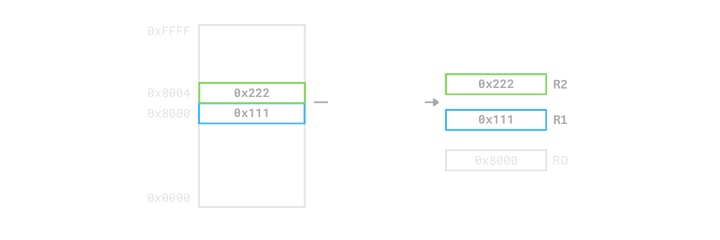
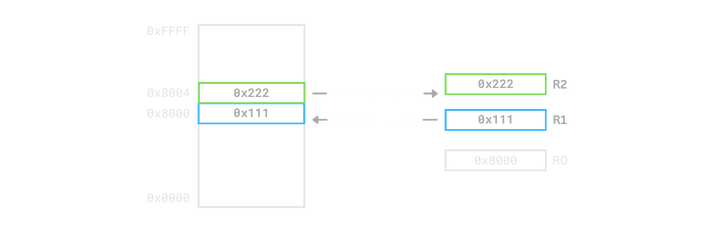
[draft] what's better?

diff --git a/_i18n/en/_posts/2025-11-11-arm-memory-block-access.md b/_i18n/en/_posts/2025-11-11-arm-memory-block-access.md
@@ -180,7 +180,7 @@ Note:
 > As shown in the [stack post]({% post_url 2025-11-06-arm-stack-memory %}),
 > it’s easier to visualize memory with higher addresses at the top and lower addresses at the bottom.
 
-#### IA (default):
+#### IA(Increment After) - default
 - start_address = Rn
 - end_addrses = Rn + (# of registers * 4) - 4
 - Rn = Rn + (# of registers * 4)
@@ -195,6 +195,37 @@ Note:
  
 Rn = 0x100C
 ```
+
+**Example: ldmia.s**
+```armasm
+  .text
+  .global _start
+_start:
+  ldr r0, =arr
+  ldmia r0, {r1-r3}
+  b .
+ 
+arr:
+  .word 0x1
+  .word 0x2
+  .word 0x3
+```
+
+**Example: stmia.s**
+```armasm
+  .text
+  .global _start
+_start:
+  mov r0, #0x8000
+  mov r1, #0x1
+  mov r2, #0x2
+  mov r3, #0x3
+ 
+  stmia r0, {r1-r3}
+ 
+  b .
+```
+
 
 <figure style="text-align: center;">
   <img src="/assets/img/ia-addr-mode-in-memory.png" alt="Memory layout in IA addressing mode" style="display: block; margin: auto;" />
